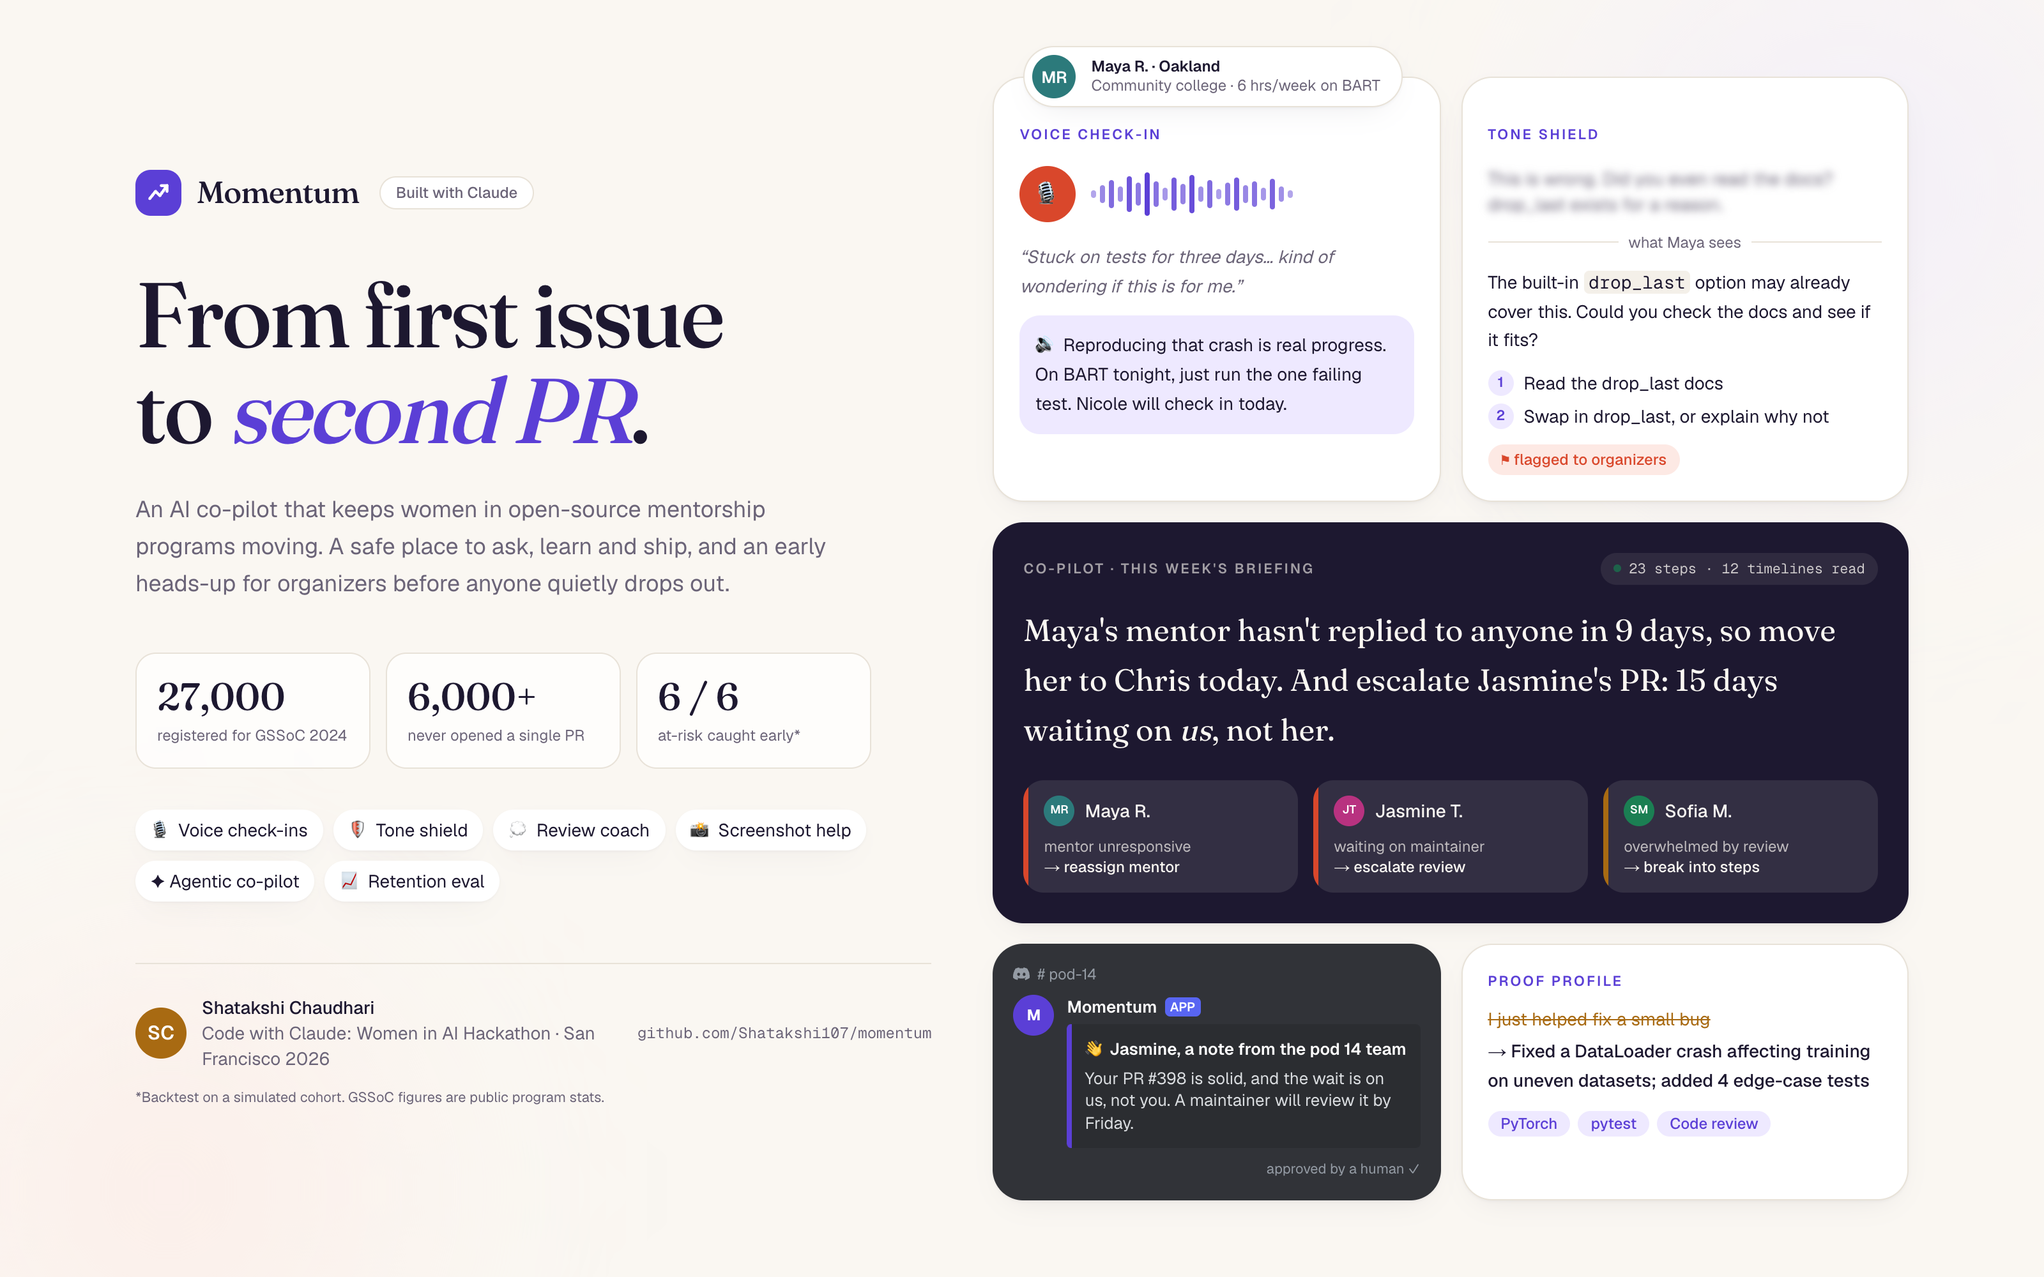
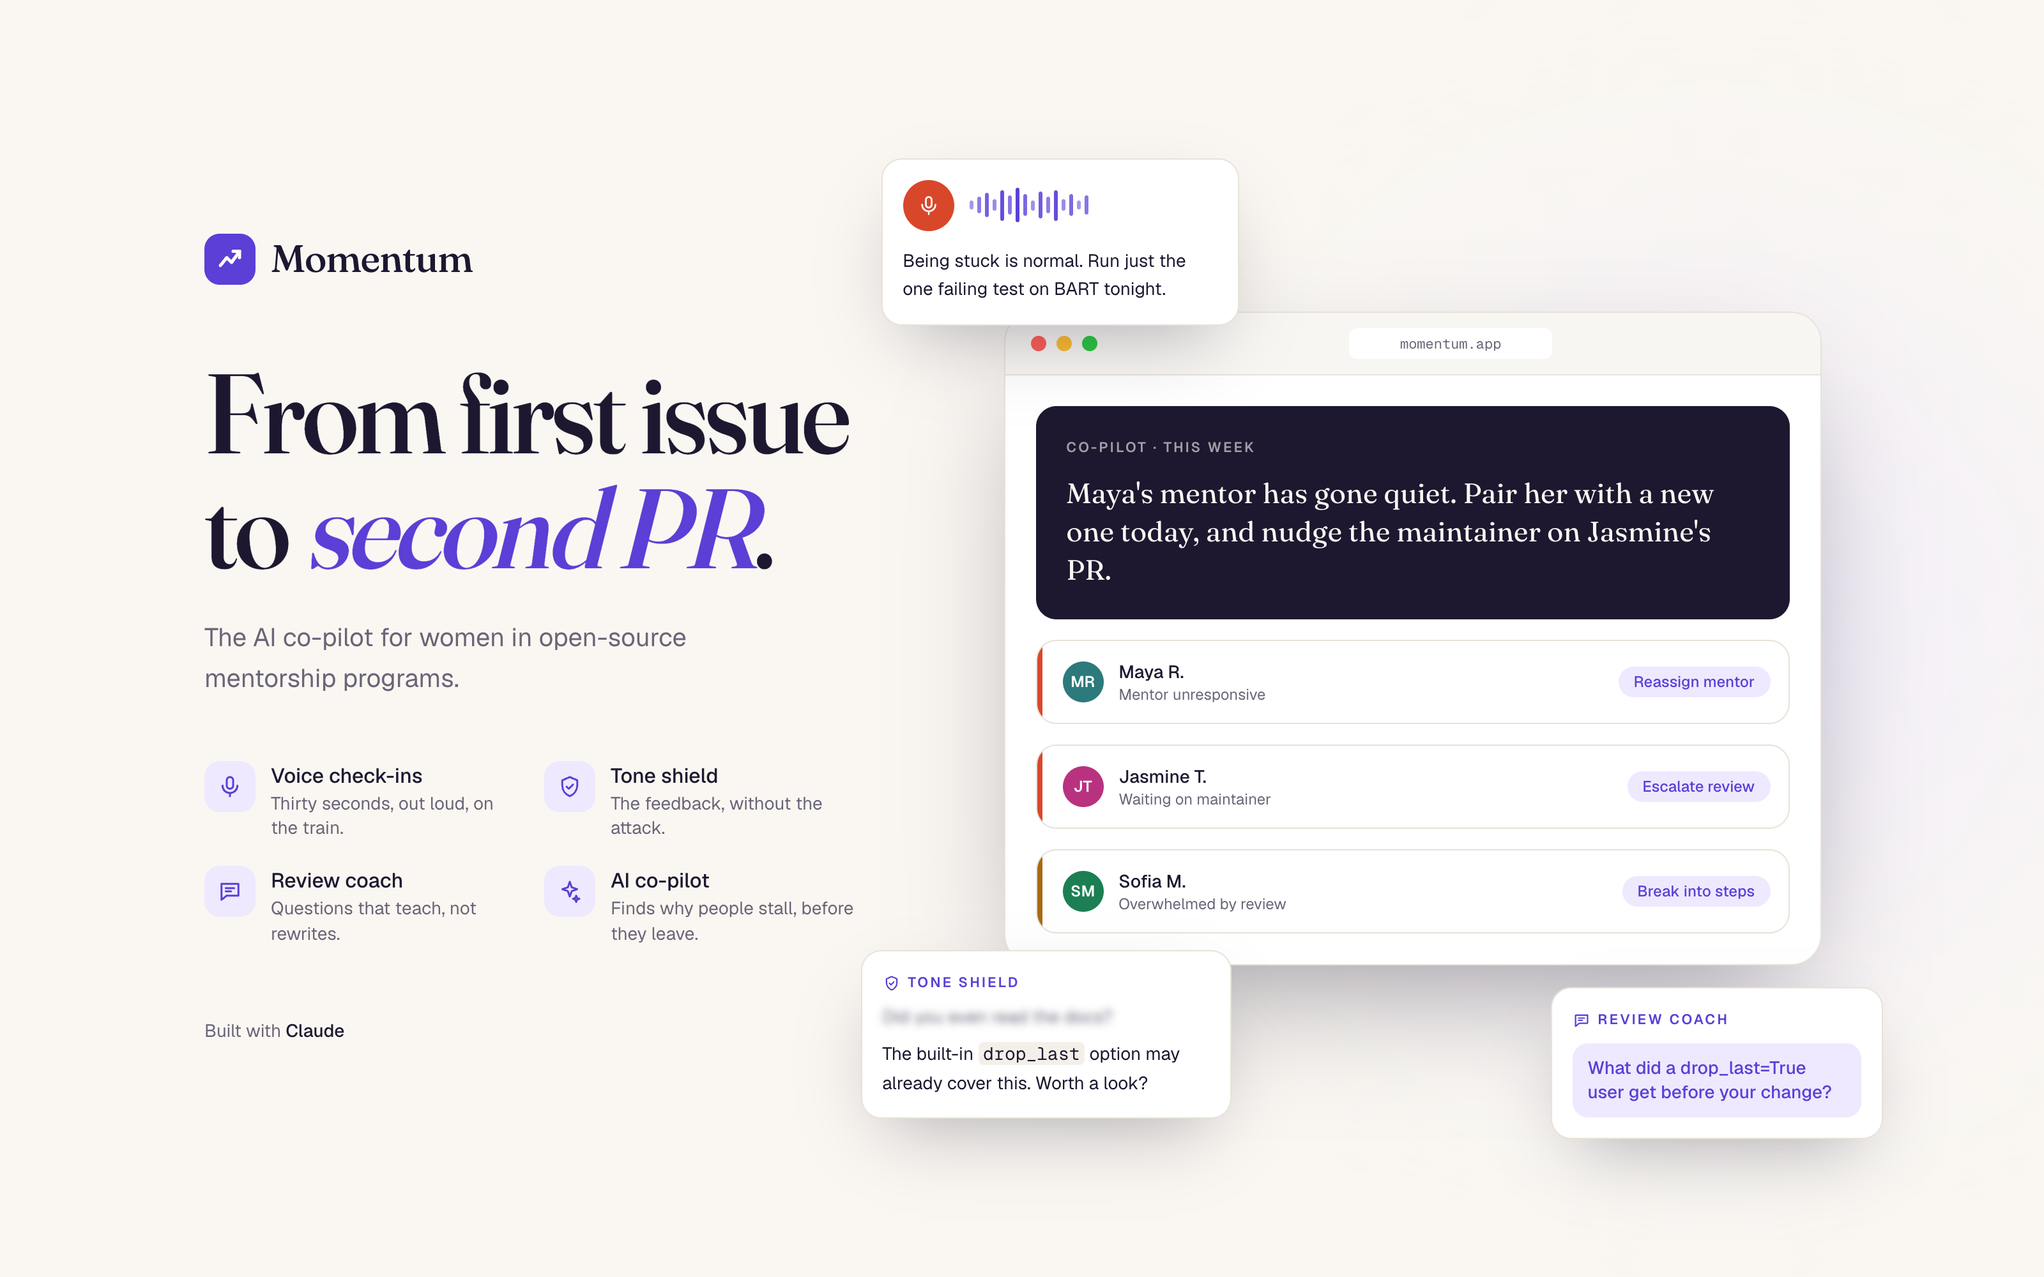
Showcase: crisp minimal redesign (headline, four features, product composition; no stats)

diff --git a/app/showcase/page.tsx b/app/showcase/page.tsx
@@ -1,12 +1,11 @@
 "use client";
 
-// A single, screenshot-ready "this is my app" page. Static by design: no API calls,
-// so it always renders instantly and identically. Open /showcase.
+// Screenshot-ready "this is my app" page. Static by design (no API calls). Open /showcase.
 
 import type { ReactNode } from "react";
-import { Avatar, DiscordLogo } from "../components/ui";
+import { Avatar } from "../components/ui";
 
-function Logo({ size = 36 }: { size?: number }) {
+function Logo({ size = 40 }: { size?: number }) {
   return (
     <span className="flex items-center justify-center rounded-xl bg-brand text-brand-ink" style={{ width: size, height: size }} aria-hidden>
       <svg width={size * 0.5} height={size * 0.5} viewBox="0 0 16 16" fill="none">
@@ -17,182 +16,148 @@ function Logo({ size = 36 }: { size?: number }) {
   );
 }
 
-function Tile({ children, className = "" }: { children: ReactNode; className?: string }) {
-  return <div className={`rounded-3xl border border-line bg-surface p-5 shadow-card ${className}`}>{children}</div>;
+// Simple line icons (crisper than emoji at screenshot size).
+const ICON_PATHS: Record<string, ReactNode> = {
+  mic: (
+    <>
+      <rect x="9" y="3" width="6" height="11" rx="3" />
+      <path d="M5 11a7 7 0 0 0 14 0M12 18v3" />
+    </>
+  ),
+  shield: (
+    <>
+      <path d="M12 3l7 3v5c0 4.5-3 8.2-7 10-4-1.8-7-5.5-7-10V6l7-3z" />
+      <path d="M9 12l2 2 4-4" />
+    </>
+  ),
+  chat: (
+    <>
+      <path d="M4 5h16v11H9l-5 4V5z" />
+      <path d="M8 9h8M8 12h5" />
+    </>
+  ),
+  spark: <path d="M12 3l1.8 5.2L19 10l-5.2 1.8L12 17l-1.8-5.2L5 10l5.2-1.8L12 3zM18 16l.8 2.2L21 19l-2.2.8L18 22l-.8-2.2L15 19l2.2-.8L18 16z" />,
+};
+function Icon({ name, size = 20 }: { name: keyof typeof ICON_PATHS; size?: number }) {
+  return (
+    <svg width={size} height={size} viewBox="0 0 24 24" fill="none" stroke="currentColor" strokeWidth="1.8" strokeLinecap="round" strokeLinejoin="round" aria-hidden>
+      {ICON_PATHS[name]}
+    </svg>
+  );
 }
 
-function Kicker({ children, tone = "text-brand" }: { children: ReactNode; tone?: string }) {
-  return <p className={`text-[11px] font-semibold uppercase tracking-[0.14em] ${tone}`}>{children}</p>;
+const FEATURES = [
+  { icon: "mic", name: "Voice check-ins", line: "Thirty seconds, out loud, on the train." },
+  { icon: "shield", name: "Tone shield", line: "The feedback, without the attack." },
+  { icon: "chat", name: "Review coach", line: "Questions that teach, not rewrites." },
+  { icon: "spark", name: "AI co-pilot", line: "Finds why people stall, before they leave." },
+] as const;
+
+function Float({ children, className = "" }: { children: ReactNode; className?: string }) {
+  return <div className={`absolute z-20 rounded-2xl border border-line bg-surface p-4 shadow-[0_24px_60px_-20px_rgb(29_24_48/0.35)] ${className}`}>{children}</div>;
 }
 
-const WAVE = [6, 14, 22, 12, 28, 18, 34, 20, 10, 26, 16, 30, 12, 22, 8, 18, 26, 14, 20, 10, 24, 12, 6];
+const WAVE = [8, 16, 24, 12, 30, 18, 34, 22, 10, 26, 16, 30, 12, 22, 8, 18];
 
 export default function Showcase() {
   return (
-    <main className="relative min-h-screen overflow-hidden bg-bg">
-      {/* soft color fields */}
-      <div className="pointer-events-none absolute -right-40 -top-40 h-[620px] w-[620px] rounded-full opacity-60 blur-3xl" style={{ background: "radial-gradient(circle, var(--brand-soft), transparent 70%)" }} />
-      <div className="pointer-events-none absolute -bottom-48 -left-32 h-[520px] w-[520px] rounded-full opacity-70 blur-3xl" style={{ background: "radial-gradient(circle, var(--coral-soft), transparent 70%)" }} />
+    <main className="relative flex min-h-screen items-center overflow-hidden bg-bg">
+      <div className="pointer-events-none absolute -right-48 top-1/2 h-[900px] w-[900px] -translate-y-1/2 rounded-full opacity-70 blur-3xl" style={{ background: "radial-gradient(circle, var(--brand-soft), transparent 65%)" }} />
 
-      <div className="relative mx-auto grid min-h-screen max-w-[1500px] items-center gap-12 px-6 py-12 lg:grid-cols-[1fr_1.15fr] lg:px-14">
-        {/* ── Left: the pitch ── */}
+      <div className="relative mx-auto grid w-full max-w-[1440px] items-center gap-16 px-8 py-16 lg:grid-cols-[0.9fr_1.1fr] lg:px-20">
+        {/* ── Pitch ── */}
         <section>
           <div className="flex items-center gap-3">
             <Logo />
-            <span className="font-display text-2xl font-medium tracking-tight">Momentum</span>
-            <span className="ml-1 rounded-full border border-line bg-surface px-3 py-1 text-xs font-medium text-muted">Built with Claude</span>
+            <span className="font-display text-3xl font-medium tracking-tight">Momentum</span>
           </div>
 
-          <h1 className="mt-10 font-display text-5xl font-medium leading-[1.05] tracking-tight sm:text-6xl xl:text-7xl">
+          <h1 className="mt-14 font-display text-6xl font-medium leading-[1.02] tracking-tight xl:text-[5.5rem]">
             From first issue
             <br />
             to <em className="text-brand">second PR</em>.
           </h1>
-          <p className="mt-6 max-w-xl text-lg leading-relaxed text-muted">
-            An AI co-pilot that keeps women in open-source mentorship programs moving. A safe place to ask, learn and ship, and an early heads-up for organizers before anyone quietly drops out.
+          <p className="mt-6 max-w-md text-xl leading-relaxed text-muted">The AI co-pilot for women in open-source mentorship programs.</p>
+
+          <ul className="mt-12 grid max-w-lg gap-5 sm:grid-cols-2">
+            {FEATURES.map((f) => (
+              <li key={f.name} className="flex gap-3">
+                <span className="flex h-10 w-10 shrink-0 items-center justify-center rounded-xl bg-brand-soft text-brand"><Icon name={f.icon} /></span>
+                <div>
+                  <p className="font-medium">{f.name}</p>
+                  <p className="text-sm leading-snug text-muted">{f.line}</p>
+                </div>
+              </li>
+            ))}
+          </ul>
+
+          <p className="mt-14 text-sm text-muted">
+            Built with <span className="font-medium text-ink">Claude</span>
           </p>
-
-          <div className="mt-10 grid max-w-xl grid-cols-3 gap-3">
-            {[
-              { v: "27,000", l: "registered for GSSoC 2024" },
-              { v: "6,000+", l: "never opened a single PR" },
-              { v: "6 / 6", l: "at-risk caught early*" },
-            ].map((s) => (
-              <div key={s.l} className="rounded-2xl border border-line bg-surface/70 p-4 backdrop-blur">
-                <p className="font-display text-3xl font-medium tabular-nums">{s.v}</p>
-                <p className="mt-1 text-xs leading-snug text-muted">{s.l}</p>
-              </div>
-            ))}
-          </div>
-
-          <div className="mt-8 flex max-w-xl flex-wrap gap-2">
-            {["🎙 Voice check-ins", "🛡 Tone shield", "💭 Review coach", "📸 Screenshot help", "✦ Agentic co-pilot", "📈 Retention eval"].map((f) => (
-              <span key={f} className="rounded-full bg-surface px-3 py-1.5 text-sm shadow-card">{f}</span>
-            ))}
-          </div>
-
-          <div className="mt-12 flex items-center gap-3 border-t border-line pt-6">
-            <Avatar name="Shatakshi Chaudhari" size={40} />
-            <div className="text-sm">
-              <p className="font-medium">Shatakshi Chaudhari</p>
-              <p className="text-muted">Code with Claude: Women in AI Hackathon · San Francisco 2026</p>
-            </div>
-            <p className="ml-auto hidden font-mono text-xs text-muted xl:block">github.com/Shatakshi107/momentum</p>
-          </div>
-          <p className="mt-3 text-[11px] text-muted">*Backtest on a simulated cohort. GSSoC figures are public program stats.</p>
         </section>
 
-        {/* ── Right: product moments ── */}
-        <section className="relative grid gap-4 sm:grid-cols-2">
-          {/* Persona */}
-          <div className="absolute -top-6 left-6 z-10 flex items-center gap-3 rounded-full border border-line bg-surface py-1.5 pl-1.5 pr-4 shadow-card">
-            <Avatar name="Maya R." size={34} />
-            <div className="text-xs leading-tight">
-              <p className="font-semibold">Maya R. · Oakland</p>
-              <p className="text-muted">Community college · 6 hrs/week on BART</p>
+        {/* ── Product ── */}
+        <section className="relative mx-auto w-full max-w-[640px] py-24">
+          {/* App window */}
+          <div className="relative z-10 overflow-hidden rounded-3xl border border-line bg-surface shadow-[0_40px_100px_-30px_rgb(29_24_48/0.45)]">
+            <div className="flex items-center gap-2 border-b border-line bg-surface-2/60 px-5 py-3">
+              {["#ff5f57", "#febc2e", "#28c840"].map((c) => (
+                <span key={c} className="h-3 w-3 rounded-full" style={{ background: c }} />
+              ))}
+              <span className="mx-auto rounded-md bg-surface px-10 py-1 font-mono text-[11px] text-muted">momentum.app</span>
+            </div>
+            <div className="space-y-4 p-6">
+              <div className="rounded-2xl bg-ink p-6 text-bg">
+                <p className="text-[11px] font-semibold uppercase tracking-[0.14em] opacity-60">Co-pilot · this week</p>
+                <p className="mt-3 font-display text-[22px] leading-snug">
+                  Maya&apos;s mentor has gone quiet. Pair her with a new one today, and nudge the maintainer on Jasmine&apos;s PR.
+                </p>
+              </div>
+              {[
+                { n: "Maya R.", d: "Mentor unresponsive", a: "Reassign mentor", bar: "bg-coral" },
+                { n: "Jasmine T.", d: "Waiting on maintainer", a: "Escalate review", bar: "bg-coral" },
+                { n: "Sofia M.", d: "Overwhelmed by review", a: "Break into steps", bar: "bg-amber" },
+              ].map((r) => (
+                <div key={r.n} className="relative flex items-center gap-3 overflow-hidden rounded-2xl border border-line p-3.5 pl-5">
+                  <span className={`absolute inset-y-0 left-0 w-1 ${r.bar}`} />
+                  <Avatar name={r.n} size={32} />
+                  <div className="min-w-0">
+                    <p className="text-sm font-medium">{r.n}</p>
+                    <p className="text-xs text-muted">{r.d}</p>
+                  </div>
+                  <span className="ml-auto rounded-full bg-brand-soft px-3 py-1 text-xs font-medium text-brand">{r.a}</span>
+                </div>
+              ))}
             </div>
           </div>
 
           {/* Voice check-in */}
-          <Tile className="pt-9">
-            <Kicker>Voice check-in</Kicker>
-            <div className="mt-4 flex items-center gap-3">
-              <span className="flex h-11 w-11 shrink-0 items-center justify-center rounded-full bg-coral text-lg text-white">🎙</span>
-              <div className="flex h-10 flex-1 items-center gap-[3px]" aria-hidden>
+          <Float className="-left-24 -top-6 w-[280px]">
+            <div className="flex items-center gap-3">
+              <span className="flex h-10 w-10 shrink-0 items-center justify-center rounded-full bg-coral text-white"><Icon name="mic" size={18} /></span>
+              <div className="flex h-8 flex-1 items-center gap-[3px]" aria-hidden>
                 {WAVE.map((h, i) => (
-                  <span key={i} className="w-[4px] rounded-full bg-brand" style={{ height: h, opacity: 0.35 + (h / 34) * 0.65 }} />
+                  <span key={i} className="w-[3px] rounded-full bg-brand" style={{ height: h * 0.8, opacity: 0.4 + (h / 34) * 0.6 }} />
                 ))}
               </div>
             </div>
-            <p className="mt-4 text-sm italic leading-relaxed text-muted">&ldquo;Stuck on tests for three days… kind of wondering if this is for me.&rdquo;</p>
-            <div className="mt-3 rounded-2xl bg-brand-soft p-3 text-sm leading-relaxed">
-              <span className="mr-1">🔊</span>Reproducing that crash is real progress. On BART tonight, just run the one failing test. Nicole will check in today.
-            </div>
-          </Tile>
+            <p className="mt-3 text-sm leading-relaxed">
+              Being stuck is normal. Run just the one failing test on BART tonight.
+            </p>
+          </Float>
 
           {/* Tone shield */}
-          <Tile className="pt-9">
-            <Kicker>Tone shield</Kicker>
-            <p className="mt-4 select-none text-sm text-muted blur-[3px]">This is wrong. Did you even read the docs? drop_last exists for a reason.</p>
-            <div className="my-3 flex items-center gap-2 text-xs text-muted">
-              <span className="h-px flex-1 bg-line" /> what Maya sees <span className="h-px flex-1 bg-line" />
-            </div>
-            <p className="text-sm leading-relaxed">The built-in <code className="rounded bg-surface-2 px-1">drop_last</code> option may already cover this. Could you check the docs and see if it fits?</p>
-            <ol className="mt-3 space-y-1.5 text-sm">
-              {["Read the drop_last docs", "Swap in drop_last, or explain why not"].map((s, i) => (
-                <li key={s} className="flex gap-2">
-                  <span className="flex h-5 w-5 shrink-0 items-center justify-center rounded-full bg-brand-soft text-[11px] font-semibold text-brand">{i + 1}</span>
-                  {s}
-                </li>
-              ))}
-            </ol>
-            <p className="mt-3 inline-block rounded-full bg-coral-soft px-2.5 py-1 text-xs font-medium text-coral">⚑ flagged to organizers</p>
-          </Tile>
+          <Float className="-bottom-6 -left-28 w-[290px]">
+            <p className="flex items-center gap-1.5 text-[11px] font-semibold uppercase tracking-[0.14em] text-brand"><Icon name="shield" size={14} /> Tone shield</p>
+            <p className="mt-2 select-none text-sm text-muted blur-[3px]">Did you even read the docs?</p>
+            <p className="mt-2 text-sm leading-relaxed">The built-in <code className="rounded bg-surface-2 px-1">drop_last</code> option may already cover this. Worth a look?</p>
+          </Float>
 
-          {/* Co-pilot briefing */}
-          <div className="rounded-3xl bg-ink p-6 text-bg shadow-card sm:col-span-2">
-            <div className="flex flex-wrap items-center gap-2">
-              <Kicker tone="text-bg/60">Co-pilot · this week&apos;s briefing</Kicker>
-              <span className="ml-auto flex items-center gap-1.5 rounded-full bg-bg/10 px-2.5 py-1 font-mono text-[11px] opacity-80">
-                <span className="h-1.5 w-1.5 animate-pulse rounded-full bg-mint" /> 23 steps · 12 timelines read
-              </span>
-            </div>
-            <p className="mt-4 font-display text-xl leading-relaxed sm:text-2xl">
-              Maya&apos;s mentor hasn&apos;t replied to anyone in 9 days, so move her to Chris today. And escalate Jasmine&apos;s PR: 15 days waiting on <em>us</em>, not her.
-            </p>
-            <div className="mt-5 grid gap-3 sm:grid-cols-3">
-              {[
-                { n: "Maya R.", d: "mentor unresponsive", a: "reassign mentor", u: "bg-coral" },
-                { n: "Jasmine T.", d: "waiting on maintainer", a: "escalate review", u: "bg-coral" },
-                { n: "Sofia M.", d: "overwhelmed by review", a: "break into steps", u: "bg-amber" },
-              ].map((c) => (
-                <div key={c.n} className="relative overflow-hidden rounded-2xl bg-bg/10 p-3 pl-4">
-                  <span className={`absolute inset-y-0 left-0 w-1 ${c.u}`} />
-                  <div className="flex items-center gap-2">
-                    <Avatar name={c.n} size={24} />
-                    <p className="text-sm font-medium">{c.n}</p>
-                  </div>
-                  <p className="mt-2 text-xs opacity-70">{c.d}</p>
-                  <p className="text-xs font-medium">→ {c.a}</p>
-                </div>
-              ))}
-            </div>
-          </div>
-
-          {/* Discord post */}
-          <div className="rounded-3xl p-4 shadow-card" style={{ background: "#313338", color: "#dbdee1" }}>
-            <p className="mb-2 flex items-center gap-1.5 text-xs" style={{ color: "#949ba4" }}>
-              <DiscordLogo size={13} color="#949ba4" /> # pod-14
-            </p>
-            <div className="flex gap-2.5">
-              <span className="flex h-8 w-8 shrink-0 items-center justify-center rounded-full bg-brand text-xs font-bold text-white">M</span>
-              <div className="min-w-0 text-[13px]">
-                <p className="flex items-center gap-1.5">
-                  <span className="font-semibold text-white">Momentum</span>
-                  <span className="rounded px-1 text-[10px] font-semibold text-white" style={{ background: "#5865F2" }}>APP</span>
-                </p>
-                <div className="mt-1 rounded border-l-4 p-2.5" style={{ background: "#2b2d31", borderColor: "#5b3fd6" }}>
-                  <p className="font-semibold text-white">👋 Jasmine, a note from the pod 14 team</p>
-                  <p className="mt-1 leading-snug">Your PR #398 is solid, and the wait is on us, not you. A maintainer will review it by Friday.</p>
-                </div>
-              </div>
-            </div>
-            <p className="mt-2 text-right text-[11px]" style={{ color: "#949ba4" }}>approved by a human ✓</p>
-          </div>
-
-          {/* Proof profile */}
-          <Tile>
-            <Kicker>Proof profile</Kicker>
-            <p className="mt-3 text-sm">
-              <span className="text-amber line-through">I just helped fix a small bug</span>
-            </p>
-            <p className="mt-1 text-sm font-medium leading-relaxed">→ Fixed a DataLoader crash affecting training on uneven datasets; added 4 edge-case tests</p>
-            <div className="mt-3 flex flex-wrap gap-1.5">
-              {["PyTorch", "pytest", "Code review"].map((s) => (
-                <span key={s} className="rounded-full bg-brand-soft px-2.5 py-0.5 text-xs font-medium text-brand">{s}</span>
-              ))}
-            </div>
-          </Tile>
+          {/* Review coach */}
+          <Float className="-bottom-10 -right-12 w-[260px]">
+            <p className="flex items-center gap-1.5 text-[11px] font-semibold uppercase tracking-[0.14em] text-brand"><Icon name="chat" size={14} /> Review coach</p>
+            <p className="mt-2.5 rounded-xl bg-brand-soft px-3 py-2.5 text-sm font-medium leading-snug text-brand">What did a drop_last=True user get before your change?</p>
+          </Float>
         </section>
       </div>
     </main>
